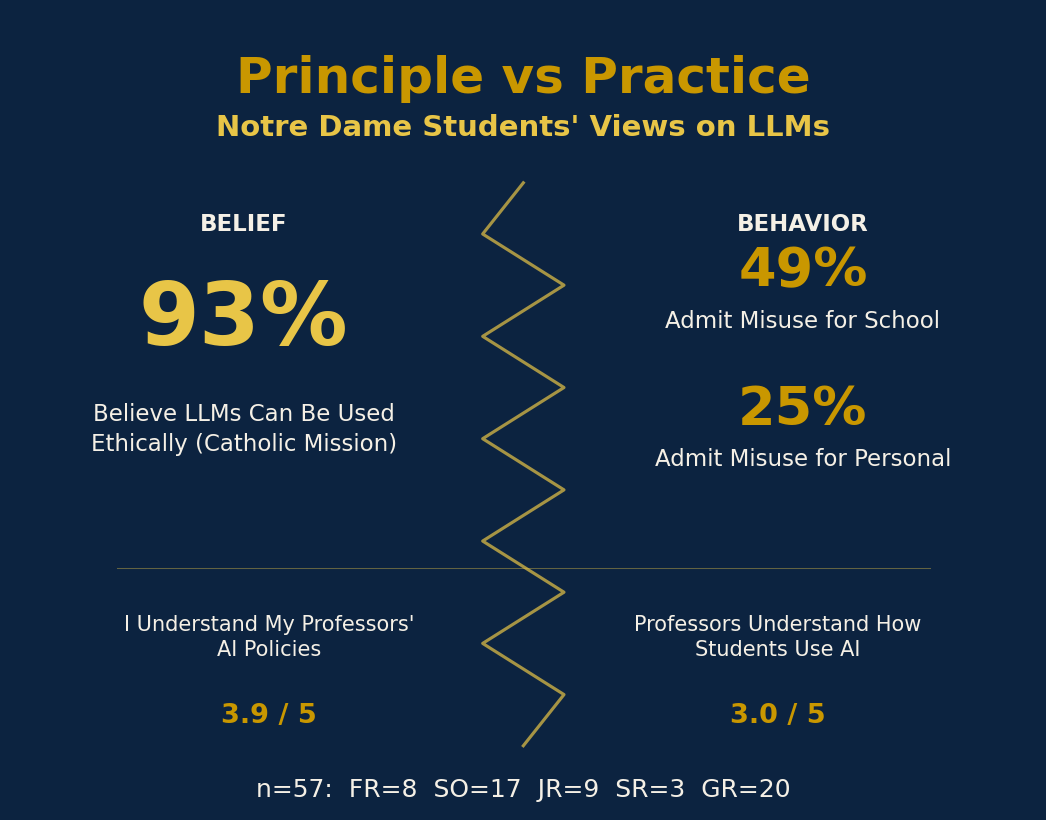
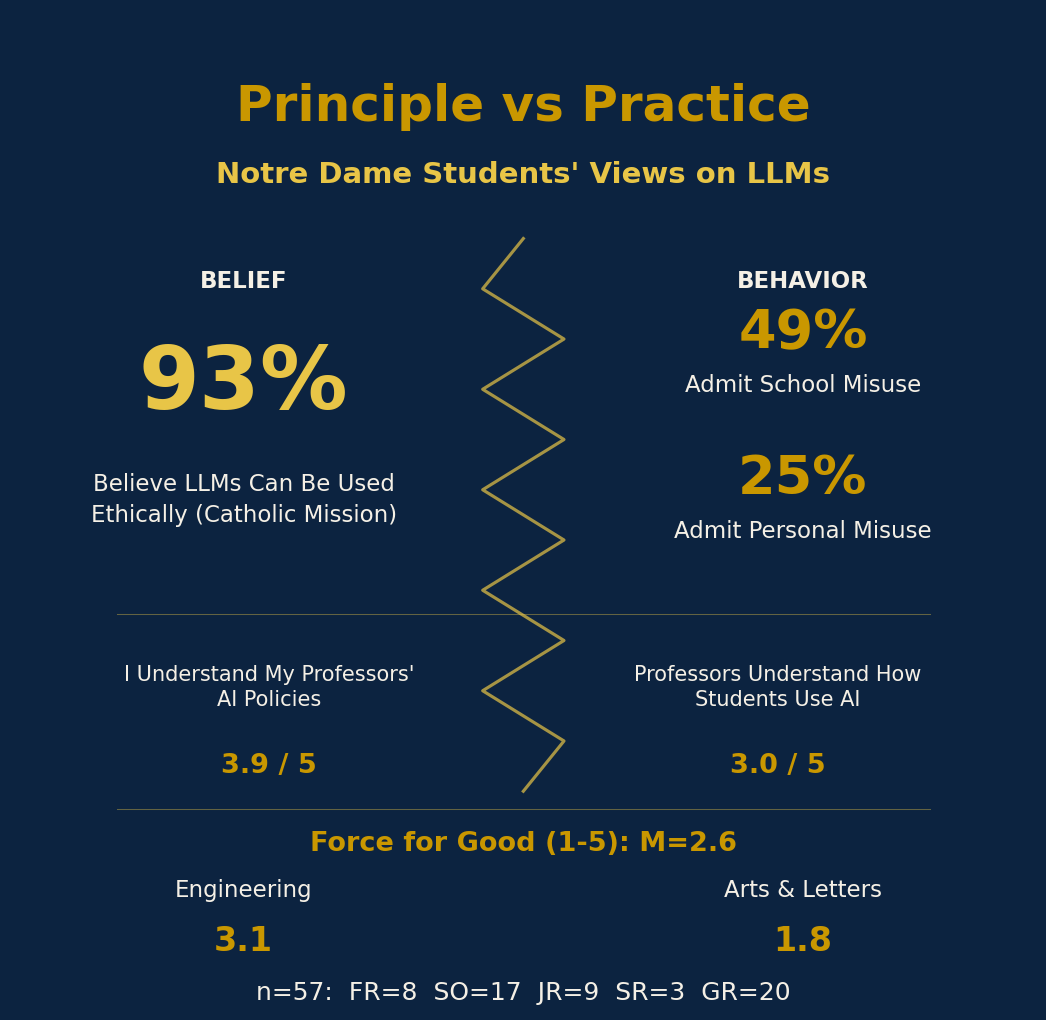
updated figures

diff --git a/scripts/create_figure.py b/scripts/create_figure.py
@@ -16,6 +16,7 @@ SCRIPT_DIR = Path(__file__).parent
 PROJECT_ROOT = SCRIPT_DIR.parent
 DATA_PATH = PROJECT_ROOT / "data" / "data.csv"
 OUTPUT_PATH = PROJECT_ROOT / "output"
+OUTPUT_PATH.mkdir(parents=True, exist_ok=True)
 
 # Column indices
 COL_GRADE = 3
@@ -23,9 +24,11 @@ COL_SCHOOL = 22
 COL_PERSONAL = 23
 COL_FORCE_BEGIN = 10
 COL_FORCE_END = 27
+COL_COLLEGE = 5
 COL_UNDERSTAND_POLICIES = 18
 COL_PROFS_UNDERSTAND = 19
 COL_LLM_USES = 9
+COL_LLMS_USED_PAST_MONTH = 8
 
 
 def load_data():
@@ -47,6 +50,46 @@ def safe_int(val, default=None):
         return int(val)
     except (ValueError, TypeError):
         return default
+
+
+def row_force_rating(row):
+    """Mean of beginning + end 'force for good' rating when both valid; else whichever exists (matches analysis script)."""
+    fb = safe_int(row[COL_FORCE_BEGIN]) if len(row) > COL_FORCE_BEGIN else None
+    fe = safe_int(row[COL_FORCE_END]) if len(row) > COL_FORCE_END else None
+    if fb and fe and 1 <= fb <= 5 and 1 <= fe <= 5:
+        return (fb + fe) / 2
+    if fe and 1 <= fe <= 5:
+        return fe
+    if fb and 1 <= fb <= 5:
+        return fb
+    return None
+
+
+def mean_force_for_college(rows, college_name):
+    vals = [
+        row_force_rating(r)
+        for r in rows
+        if len(r) > COL_COLLEGE and str(r[COL_COLLEGE]).strip() == college_name and row_force_rating(r) is not None
+    ]
+    return sum(vals) / len(vals) if vals else None
+
+
+LLM_NONE_LABEL = "N/A"
+
+
+def normalize_llm_product_name(raw):
+    """Normalize free-text LLM names from the past-month column; return None to skip."""
+    name = raw.strip()
+    if not name:
+        return None
+    low = name.lower()
+    if "have not used" in low:
+        return LLM_NONE_LABEL
+    if "google ai" in low:
+        return "Gemini"
+    if "copilot" in low:
+        return "Copilot"
+    return name
 
 
 def create_figure():
@@ -166,6 +209,69 @@ def create_figure():
     return out_path
 
 
+def create_llms_used_chart():
+    """Horizontal bar chart: which LLMs were used in the past month, plus 'N/A', >=10% only."""
+    from collections import Counter
+
+    rows = load_data()
+    n = len(rows)
+    counts = Counter()
+    for r in rows:
+        if len(r) <= COL_LLMS_USED_PAST_MONTH:
+            continue
+        seen = set()
+        for item in r[COL_LLMS_USED_PAST_MONTH].split(","):
+            u = normalize_llm_product_name(item)
+            if u:
+                seen.add(u)
+        if LLM_NONE_LABEL in seen:
+            seen = {LLM_NONE_LABEL}
+        for u in seen:
+            counts[u] += 1
+
+    filtered = [(k, v) for k, v in counts.items() if 100 * v / n >= 10]
+    filtered.sort(key=lambda x: x[1])
+    labels = [x[0] for x in filtered]
+    vals = [x[1] for x in filtered]
+    pcts = [100 * v / n for v in vals]
+
+    COLORS = {
+        "navy": "#0C2340",
+        "gold": "#C99700",
+        "light_gold": "#E8C547",
+        "slate": "#4A5F7F",
+        "cream": "#F5F0E6",
+    }
+
+    fig_h = max(3.0, 0.55 * len(labels) + 1.5)
+    fig, ax = plt.subplots(figsize=(10, fig_h))
+    fig.patch.set_facecolor(COLORS["navy"])
+    y_pos = range(len(labels))
+    bars = ax.barh(y_pos, vals, height=0.5, color=COLORS["gold"], edgecolor=COLORS["light_gold"], linewidth=1.2)
+    ax.set_yticks(y_pos)
+    ax.set_yticklabels(labels, color=COLORS["cream"], fontsize=11)
+    ax.set_xlabel("Number of respondents", color=COLORS["cream"])
+    ax.set_xlim(0, n)
+    ticks = [0, 10, 20, 30, 40, 50]
+    if n not in ticks:
+        ticks.append(n)
+        ticks.sort()
+    ax.set_xticks(ticks)
+    ax.set_title("Which LLMs Have Notre Dame Students Used in the Past Month?", color=COLORS["gold"], fontsize=14)
+    ax.set_facecolor(COLORS["navy"])
+    ax.spines[:].set_color(COLORS["slate"])
+    ax.tick_params(colors=COLORS["cream"])
+    ax.bar_label(bars, labels=[f"{v} ({p:.0f}%)" for v, p in zip(vals, pcts)], color=COLORS["cream"], fontsize=10, padding=12)
+
+    plt.tight_layout()
+    fig.text(0.5, -0.02, ">10%", ha="center", fontsize=10, color=COLORS["slate"])
+    out_path = OUTPUT_PATH / "llm_models_chart.png"
+    plt.savefig(out_path, dpi=150, bbox_inches="tight", facecolor=COLORS["navy"], pad_inches=0.35)
+    plt.close()
+    print(f"Figure saved to {out_path}")
+    return out_path
+
+
 def create_uses_chart():
     """Bar chart of what people use LLMs for, ranked highest to lowest, >=10% only."""
     rows = load_data()
@@ -262,6 +368,13 @@ def create_principle_practice_figure():
     grade_order = ["FR", "SO", "JR", "SR", "GR"]
     grade_str = "  ".join(f"{k}={grades.get(k, 0)}" for k in grade_order)
 
+    all_force = [v for v in (row_force_rating(r) for r in rows) if v is not None]
+    mean_force = sum(all_force) / len(all_force) if all_force else 0
+    eng_force = mean_force_for_college(rows, "College of Engineering")
+    arts_force = mean_force_for_college(rows, "College of Arts & Letters")
+    eng_label = f"{eng_force:.1f}" if eng_force is not None else "—"
+    arts_label = f"{arts_force:.1f}" if arts_force is not None else "—"
+
     COLORS = {
         "navy": "#0C2340",
         "gold": "#C99700",
@@ -270,53 +383,71 @@ def create_principle_practice_figure():
         "cream": "#F5F0E6",
     }
 
-    fig, ax = plt.subplots(figsize=(7, 5.5))
+    fig, ax = plt.subplots(figsize=(7, 6.85))
     fig.patch.set_facecolor(COLORS["navy"])
     ax.set_facecolor(COLORS["navy"])
     ax.set_xlim(0, 10)
-    ax.set_ylim(0, 8)
+    ax.set_ylim(0, 9.5)
     ax.axis("off")
 
     # Title — bold, distinctive
-    ax.text(5, 7.6, "Principle vs Practice", color=COLORS["gold"], fontsize=24, fontweight="bold", ha="center", va="top")
-    ax.text(5, 7.0, "Notre Dame Students' Views on LLMs", color=COLORS["light_gold"], fontsize=14, fontweight="bold", ha="center", va="top")
+    ax.text(5, 8.85, "Principle vs Practice", color=COLORS["gold"], fontsize=24, fontweight="bold", ha="center", va="top")
+    ax.text(5, 8.1, "Notre Dame Students' Views on LLMs", color=COLORS["light_gold"], fontsize=14, fontweight="bold", ha="center", va="top")
 
     # Lightning-bolt divider (starts below title, jagged for "vs" effect)
-    zig_y = np.linspace(6.3, 0.6, 12)
+    zig_y = np.linspace(7.35, 2.05, 12)
     zig_x = 5 + 0.4 * np.array([0, -1, 1, -1, 1, -1, 1, -1, 1, -1, 1, 0])
     ax.plot(zig_x, zig_y, color=COLORS["light_gold"], linewidth=1.5, alpha=0.7, zorder=0)
 
     # Left column: BELIEF
-    ax.text(2.25, 6.0, "BELIEF", color=COLORS["cream"], fontsize=11, fontweight="bold", ha="center", va="top")
-    ax.text(2.25, 4.9, f"{pct_ethical:.0f}%", color=COLORS["light_gold"], fontsize=42, fontweight="bold", ha="center", va="center")
-    ax.text(2.25, 3.8, "Believe LLMs Can Be Used\nEthically (Catholic Mission)", color=COLORS["cream"], fontsize=11, ha="center", va="center", linespacing=1.4)
+    ax.text(2.25, 7.05, "BELIEF", color=COLORS["cream"], fontsize=11, fontweight="bold", ha="center", va="top")
+    ax.text(2.25, 5.95, f"{pct_ethical:.0f}%", color=COLORS["light_gold"], fontsize=42, fontweight="bold", ha="center", va="center")
+    ax.text(2.25, 4.85, "Believe LLMs Can Be Used\nEthically (Catholic Mission)", color=COLORS["cream"], fontsize=11, ha="center", va="center", linespacing=1.4)
 
     # Right column: BEHAVIOR
-    ax.text(7.75, 6.0, "BEHAVIOR", color=COLORS["cream"], fontsize=11, fontweight="bold", ha="center", va="top")
-    ax.text(7.75, 5.4, f"{pct_misuse:.0f}%", color=COLORS["gold"], fontsize=26, fontweight="bold", ha="center", va="center")
-    ax.text(7.75, 4.9, "Admit Misuse for School", color=COLORS["cream"], fontsize=11, ha="center", va="center")
-    ax.text(7.75, 4.0, f"{pct_personal:.0f}%", color=COLORS["gold"], fontsize=26, fontweight="bold", ha="center", va="center")
-    ax.text(7.75, 3.5, "Admit Misuse for Personal", color=COLORS["cream"], fontsize=11, ha="center", va="center")
+    ax.text(7.75, 7.05, "BEHAVIOR", color=COLORS["cream"], fontsize=11, fontweight="bold", ha="center", va="top")
+    ax.text(7.75, 6.45, f"{pct_misuse:.0f}%", color=COLORS["gold"], fontsize=26, fontweight="bold", ha="center", va="center")
+    ax.text(7.75, 5.95, "Admit School Misuse", color=COLORS["cream"], fontsize=11, ha="center", va="center")
+    ax.text(7.75, 5.05, f"{pct_personal:.0f}%", color=COLORS["gold"], fontsize=26, fontweight="bold", ha="center", va="center")
+    ax.text(7.75, 4.55, "Admit Personal Misuse", color=COLORS["cream"], fontsize=11, ha="center", va="center")
 
-    # Bottom: Understanding — Title Case
-    ax.axhline(y=2.4, color=COLORS["light_gold"], linewidth=0.5, alpha=0.4, xmin=0.1, xmax=0.9)
-    ax.text(2.5, 1.7, "I Understand My Professors'\nAI Policies", color=COLORS["cream"], fontsize=10, ha="center", va="center", linespacing=1.3)
-    ax.text(2.5, 0.9, f"{avg_stud:.1f} / 5", color=COLORS["gold"], fontsize=13, fontweight="bold", ha="center", va="center")
-    ax.text(7.5, 1.7, "Professors Understand How\nStudents Use AI", color=COLORS["cream"], fontsize=10, ha="center", va="center", linespacing=1.3)
-    ax.text(7.5, 0.9, f"{avg_prof:.1f} / 5", color=COLORS["gold"], fontsize=13, fontweight="bold", ha="center", va="center")
+    # Understanding — Title Case
+    ax.axhline(y=3.75, color=COLORS["light_gold"], linewidth=0.5, alpha=0.4, xmin=0.1, xmax=0.9)
+    ax.text(2.5, 3.05, "I Understand My Professors'\nAI Policies", color=COLORS["cream"], fontsize=10, ha="center", va="center", linespacing=1.3)
+    ax.text(2.5, 2.3, f"{avg_stud:.1f} / 5", color=COLORS["gold"], fontsize=13, fontweight="bold", ha="center", va="center")
+    ax.text(7.5, 3.05, "Professors Understand How\nStudents Use AI", color=COLORS["cream"], fontsize=10, ha="center", va="center", linespacing=1.3)
+    ax.text(7.5, 2.3, f"{avg_prof:.1f} / 5", color=COLORS["gold"], fontsize=13, fontweight="bold", ha="center", va="center")
 
-    # Sample info at bottom — more spacing above, closer to bottom
-    ax.text(5, 0.15, f"n={n}:  {grade_str}", color=COLORS["cream"], fontsize=12, ha="center", va="center")
+    # Force for good — Engineering vs Arts & Letters (exact college labels in data)
+    ax.axhline(y=1.88, color=COLORS["light_gold"], linewidth=0.5, alpha=0.4, xmin=0.1, xmax=0.9)
+    ax.text(
+        5,
+        1.55,
+        f"Force for Good (1-5): M={mean_force:.1f}",
+        color=COLORS["gold"],
+        fontsize=13,
+        fontweight="bold",
+        ha="center",
+        va="center",
+    )
+    ax.text(2.25, 1.1, "Engineering", color=COLORS["cream"], fontsize=11, ha="center", va="center")
+    ax.text(2.25, 0.62, eng_label, color=COLORS["gold"], fontsize=16, fontweight="bold", ha="center", va="center")
+    ax.text(7.75, 1.1, "Arts & Letters", color=COLORS["cream"], fontsize=11, ha="center", va="center")
+    ax.text(7.75, 0.62, arts_label, color=COLORS["gold"], fontsize=16, fontweight="bold", ha="center", va="center")
+
+    # Sample info at bottom
+    ax.text(5, 0.12, f"n={n}:  {grade_str}", color=COLORS["cream"], fontsize=12, ha="center", va="center")
 
     plt.tight_layout(pad=0.8)
     out_path = OUTPUT_PATH / "principle_practice_figure.png"
     plt.savefig(out_path, dpi=150, bbox_inches="tight", facecolor=COLORS["navy"])
     plt.close()
     print(f"Figure saved to {out_path}")
-    return out_path
+    return OUTPUT_PATH / "principle_practice_figure.png"
 
 
 if __name__ == "__main__":
     create_figure()
+    create_llms_used_chart()
     create_uses_chart()
     create_principle_practice_figure()
